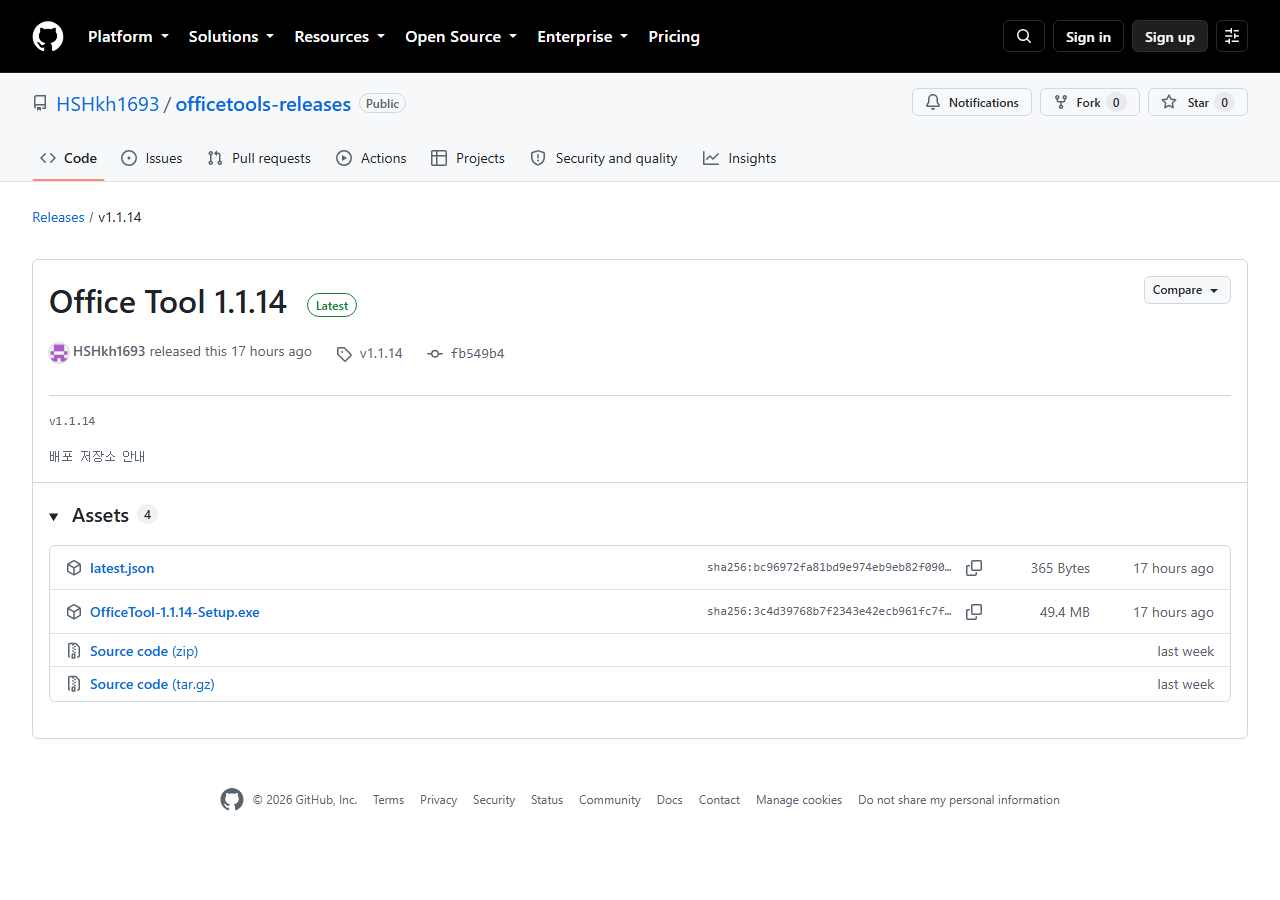
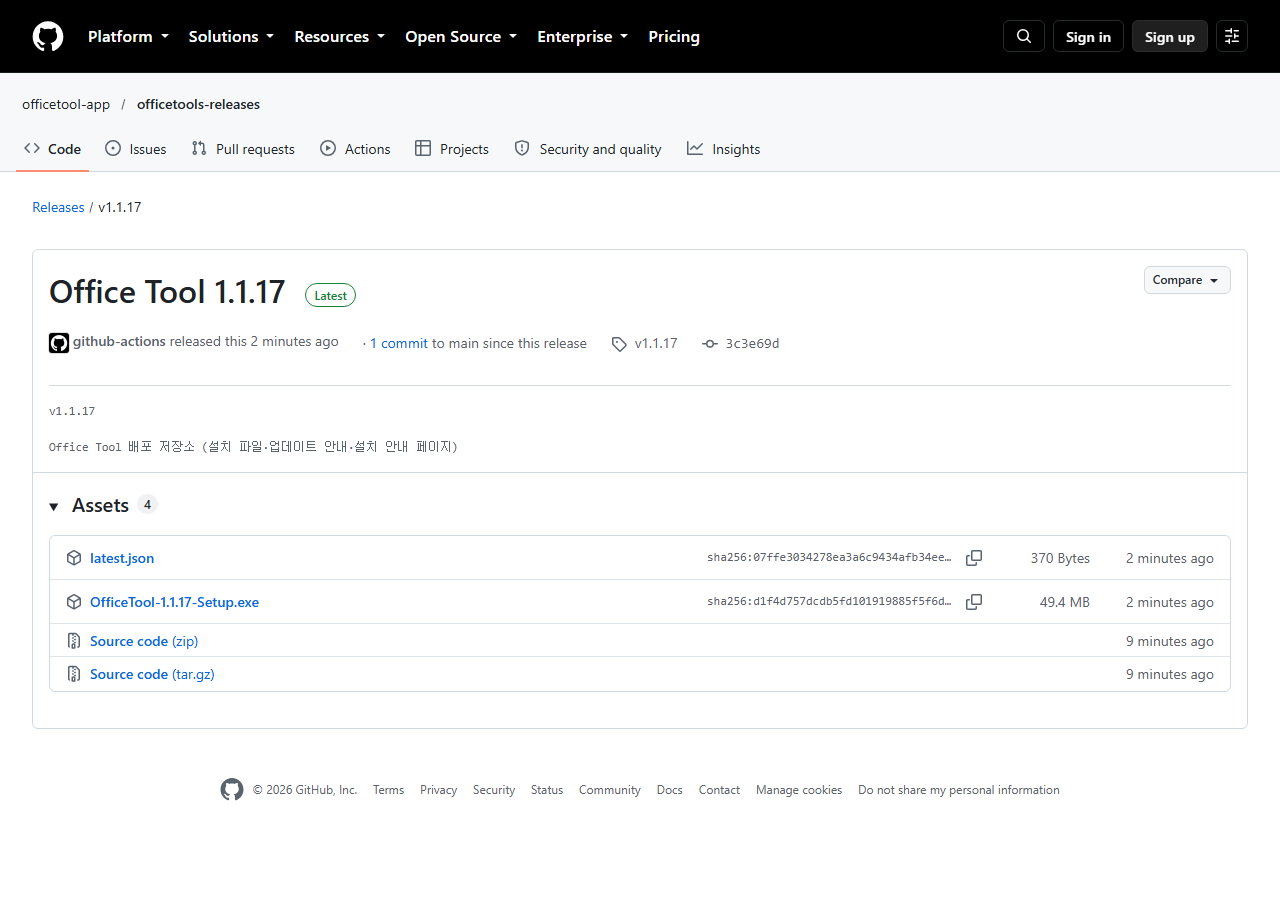
설치 안내: 새 배포 주소 화면

diff --git a/docs/install/index.html b/docs/install/index.html
@@ -82,7 +82,7 @@
     <p>페이지 아래쪽 <b>Assets</b> 목록에서 <b>OfficeTool-<i>버전</i>-Setup.exe</b> 를 클릭하면 내려받기가 시작됩니다. 다른 항목(latest.json, Source code)은 누르지 않아도 됩니다.</p>
     <figure>
       <img src="images/01_github_release.png" alt="GitHub 릴리스 페이지의 Assets 목록에서 Setup.exe 를 고르는 화면">
-      <figcaption>Assets 안의 <b>OfficeTool-1.1.14-Setup.exe</b> 를 누릅니다. 버전 숫자는 그때그때 다를 수 있습니다.</figcaption>
+      <figcaption>Assets 안의 <b>OfficeTool-1.1.17-Setup.exe</b> 를 누릅니다. 버전 숫자는 그때그때 다를 수 있습니다.</figcaption>
     </figure>
     <div class="note">
       <b>브라우저가 "이 파일은 일반적으로 다운로드되지 않습니다"라고 할 때</b><br>
